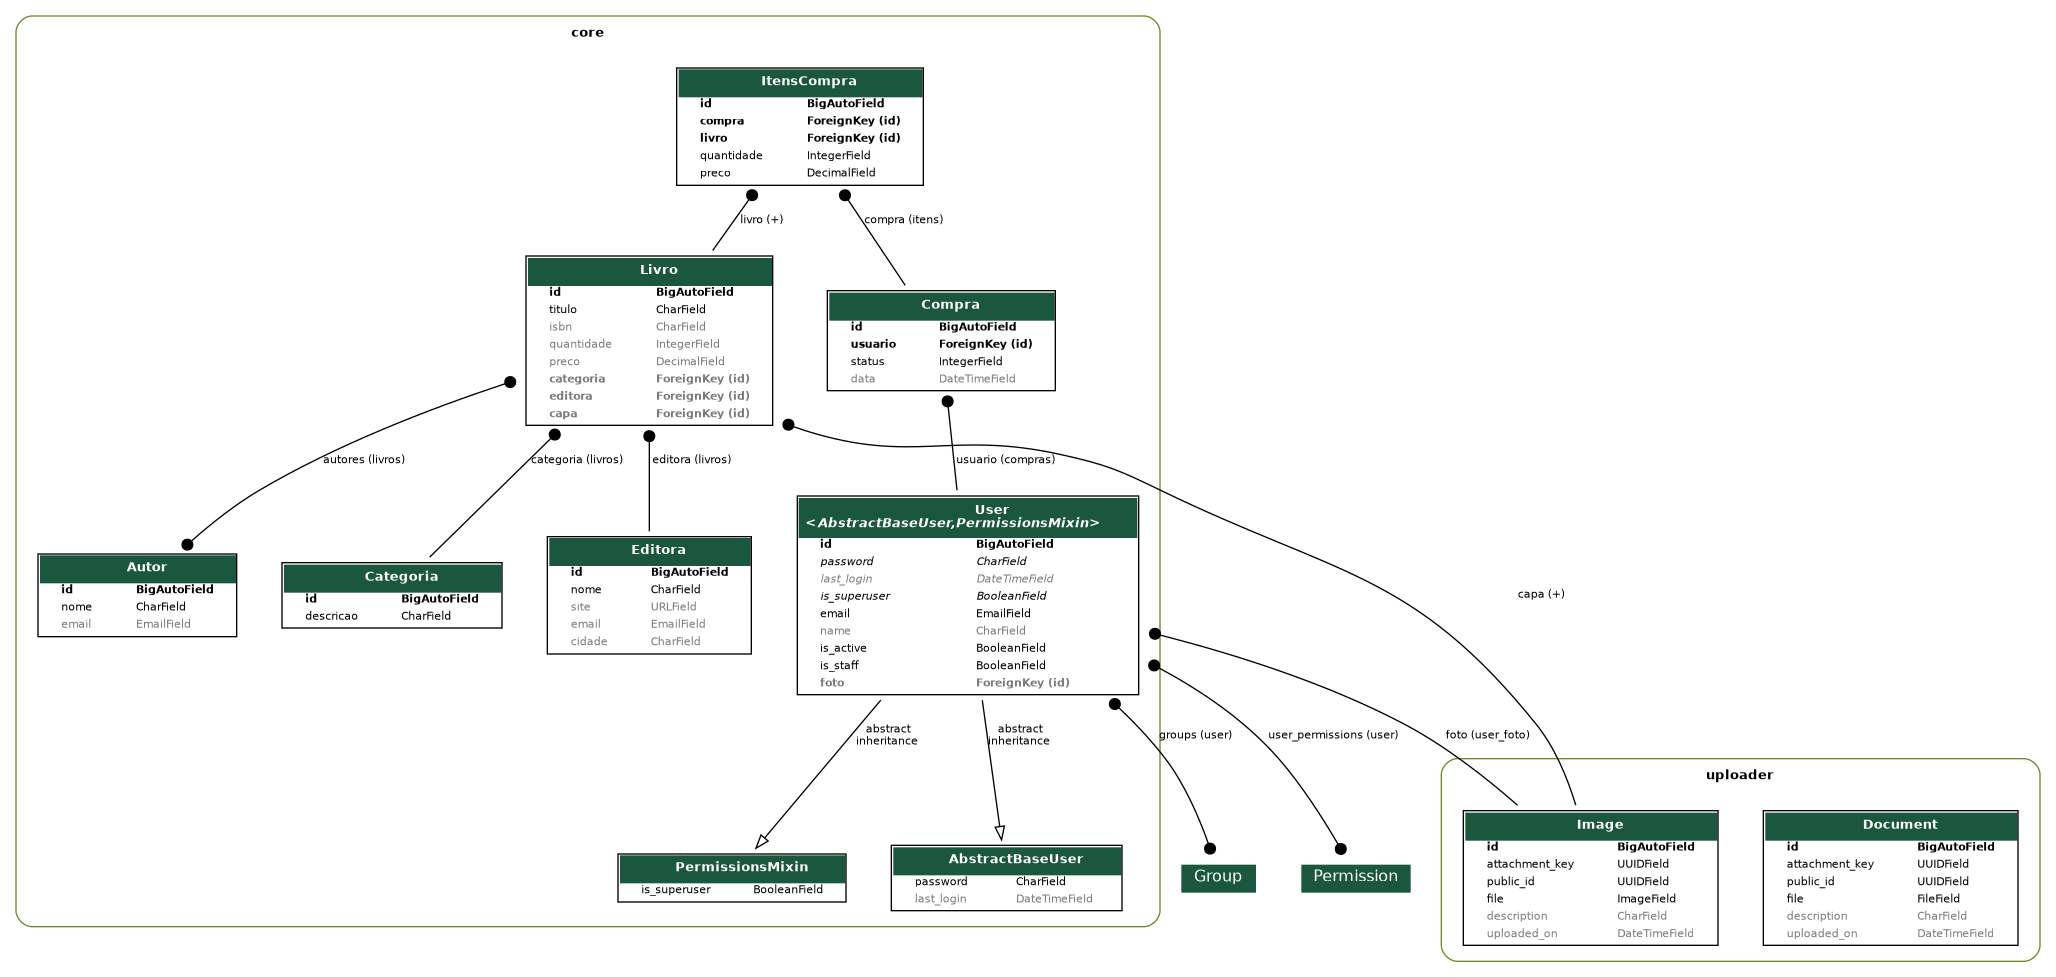
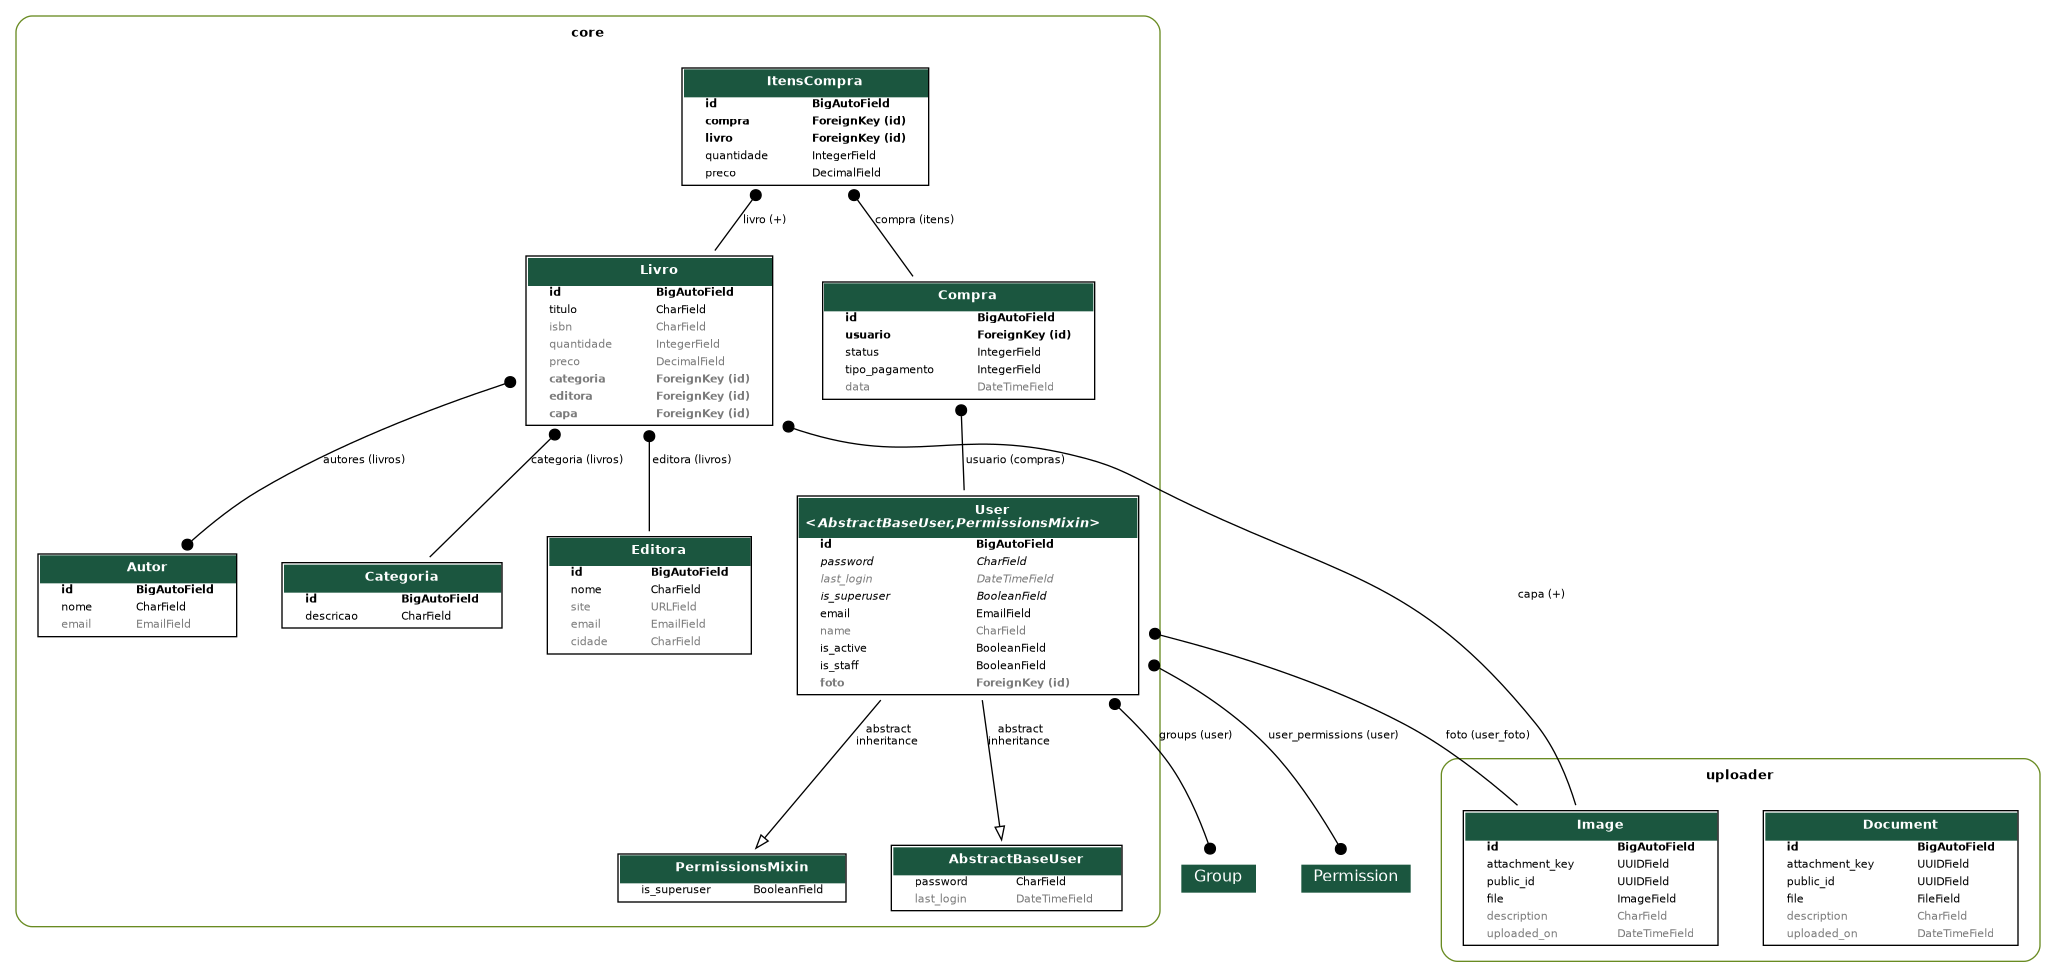
FEAT: Adicionando tipo de pagamento à entidade de Compra

diff --git a/core/models/compra.py b/core/models/compra.py
@@ -11,8 +11,18 @@ class Compra(models.Model):
         PAGO = 3, 'Pago'
         ENTREGUE = 4, 'Entregue'
 
+    class TipoPagamento(models.IntegerChoices):
+        CARTAO_CREDITO = 1, 'Cartão de Crédito'
+        CARTAO_DEBITO = 2, 'Cartão de Débito'
+        PIX = 3, 'PIX'
+        BOLETO = 4, 'Boleto'
+        TRANSFERENCIA_BANCARIA = 5, 'Transferência Bancária'
+        DINHEIRO = 6, 'Dinheiro'
+        OUTRO = 7, 'Outro'
+
     usuario = models.ForeignKey(User, on_delete=models.PROTECT, related_name='compras')
     status = models.IntegerField(choices=StatusCompra.choices, default=StatusCompra.CARRINHO)
+    tipo_pagamento = models.IntegerField(choices=TipoPagamento.choices, default=TipoPagamento.PIX)
     data = models.DateTimeField(auto_now_add=True)
 
     @property

diff --git a/core/serializers/compra.py b/core/serializers/compra.py
@@ -107,9 +107,10 @@ class CompraListSerializer(ModelSerializer):
 class CompraSerializer(ModelSerializer):
     usuario = CharField(source='usuario.email', read_only=True)
     status = CharField(source='get_status_display', read_only=True)
+    tipo_pagamento = CharField(source='get_tipo_pagamento_display', read_only=True)
     data = DateTimeField(read_only=True)
     itens = ItensCompraSerializer(many=True, read_only=True)
 
     class Meta:
         model = Compra
-        fields = ('id', 'usuario', 'status', 'total', 'data', 'itens')
+        fields = ('id', 'usuario', 'status', 'tipo_pagamento', 'total', 'data', 'itens')

diff --git a/core/migrations/0018_compra_tipo_pagamento.py b/core/migrations/0018_compra_tipo_pagamento.py
@@ -1,0 +1,18 @@
+# Generated by Django 5.2.13 on 2026-09-22 17:23
+
+from django.db import migrations, models
+
+
+class Migration(migrations.Migration):
+
+    dependencies = [
+        ('core', '0017_compra_data'),
+    ]
+
+    operations = [
+        migrations.AddField(
+            model_name='compra',
+            name='tipo_pagamento',
+            field=models.IntegerField(choices=[(1, 'Cartão de Crédito'), (2, 'Cartão de Débito'), (3, 'PIX'), (4, 'Boleto'), (5, 'Transferência Bancária'), (6, 'Dinheiro'), (7, 'Outro')], default=3),
+        ),
+    ]
